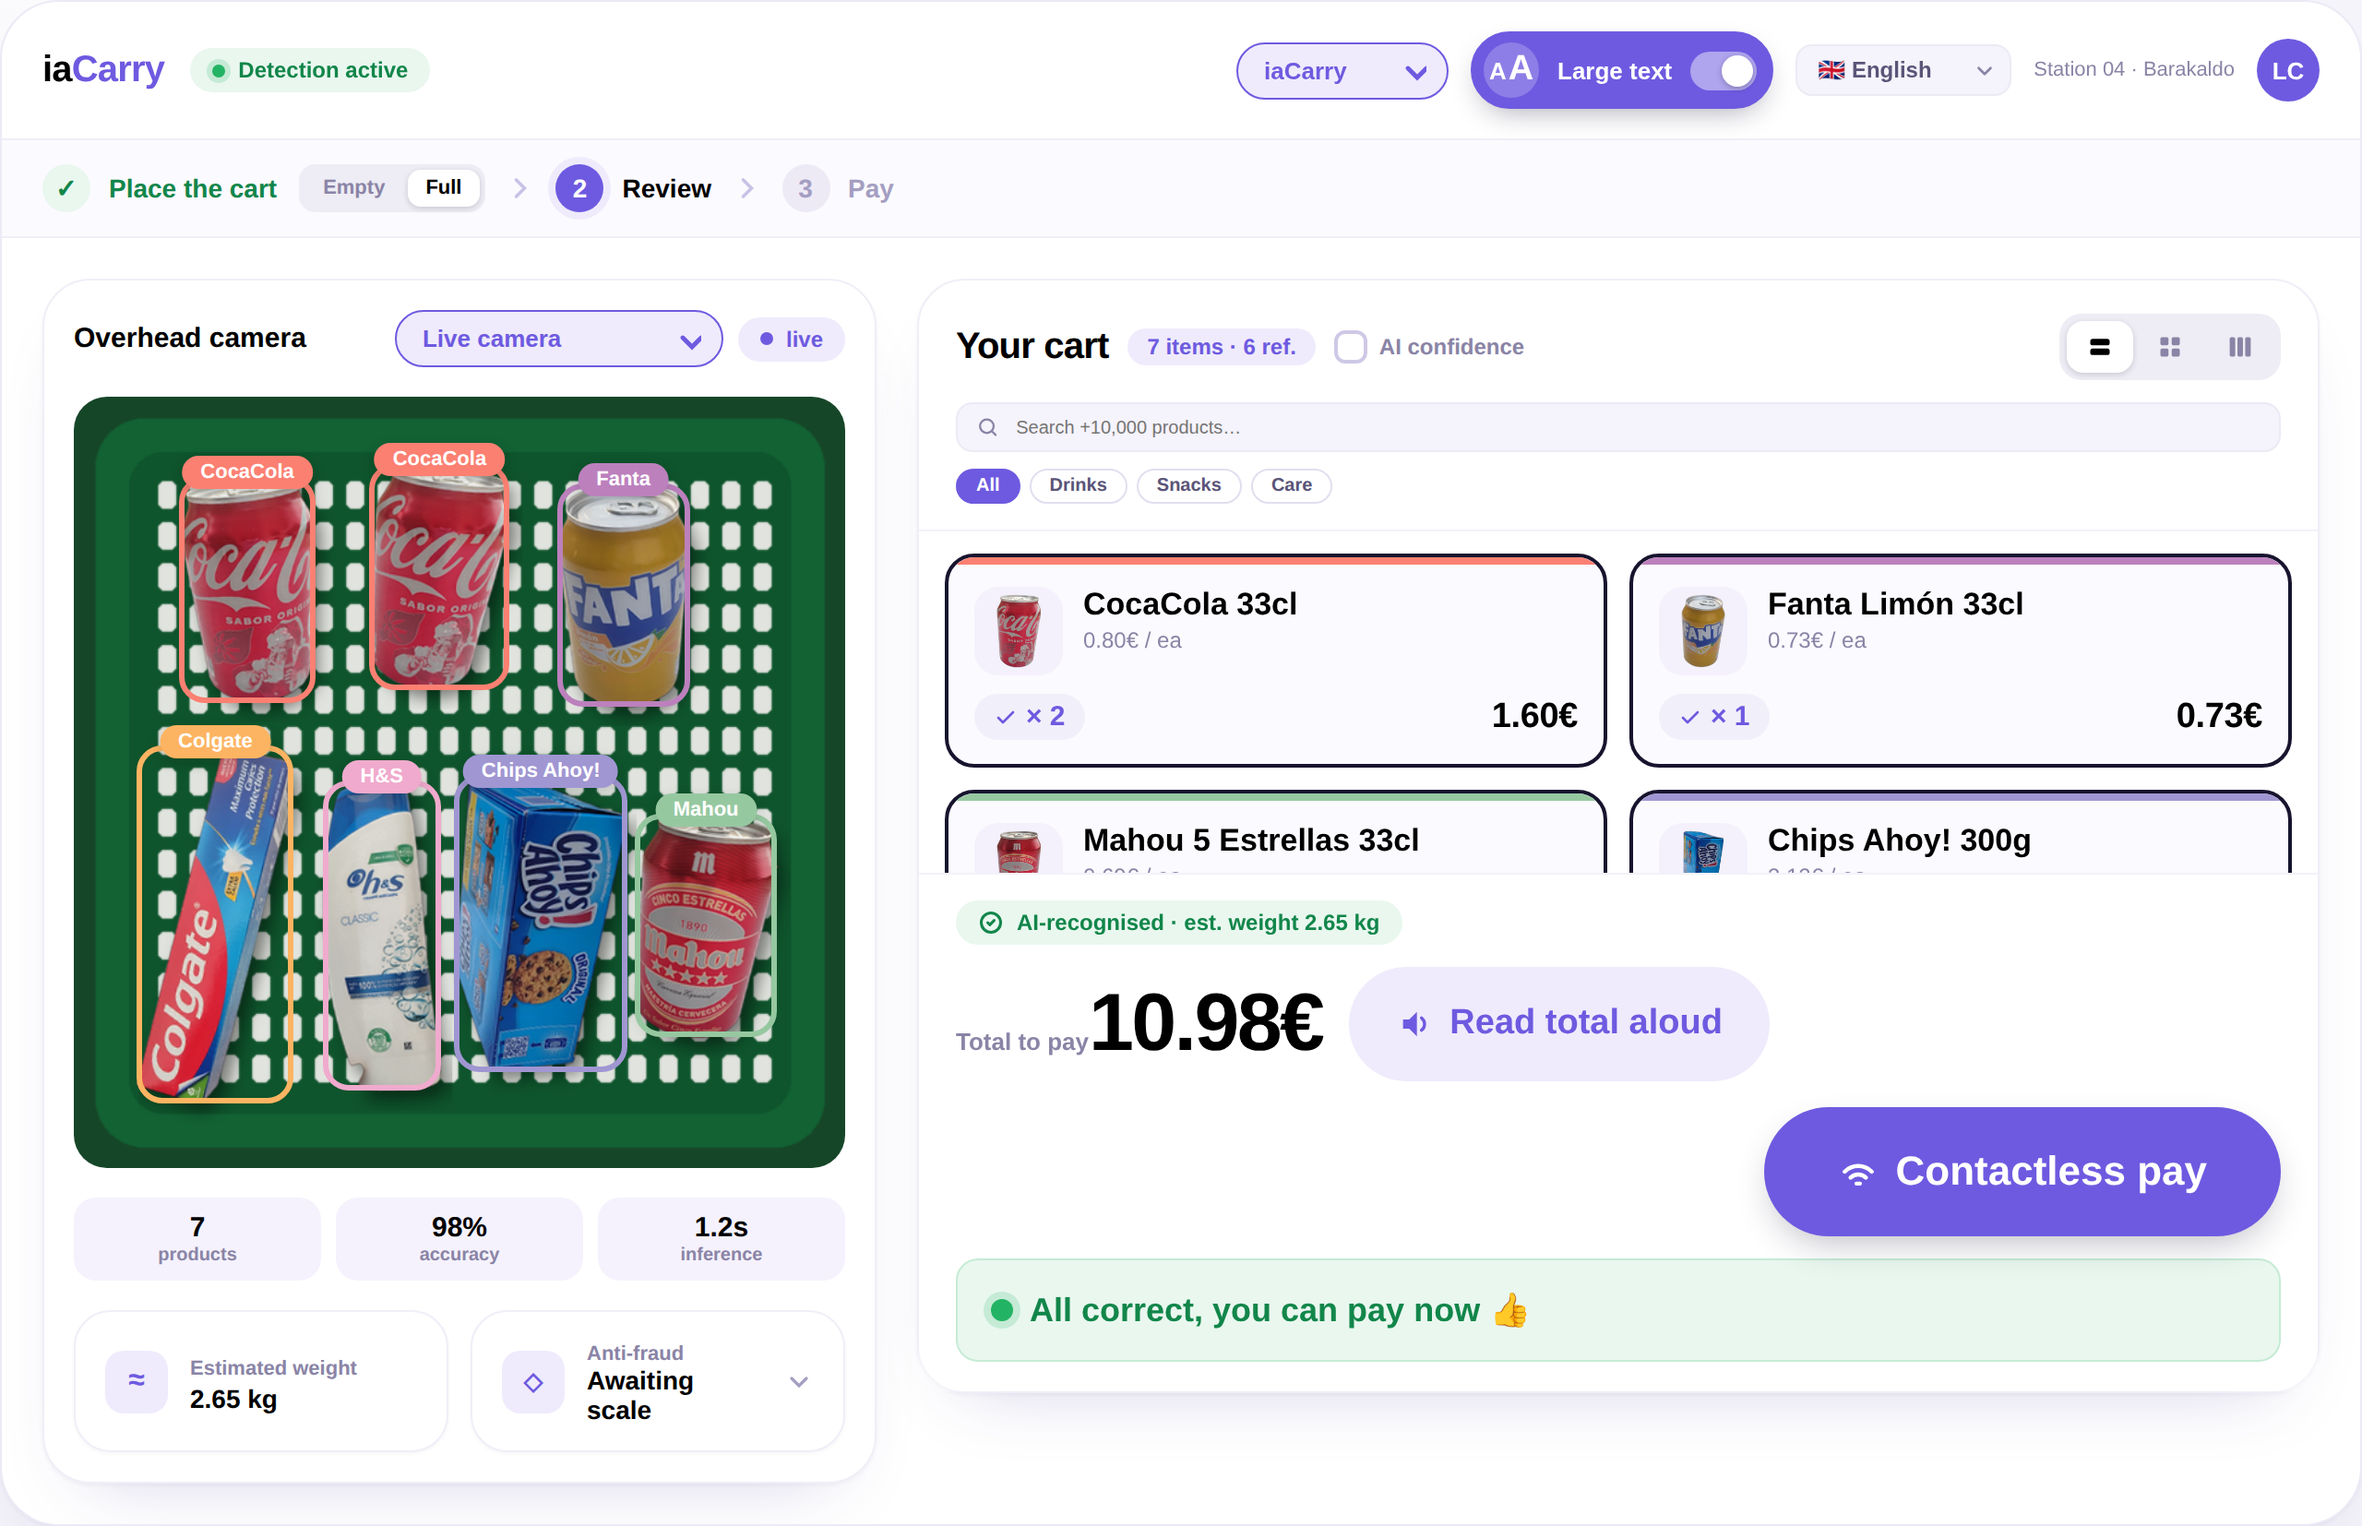
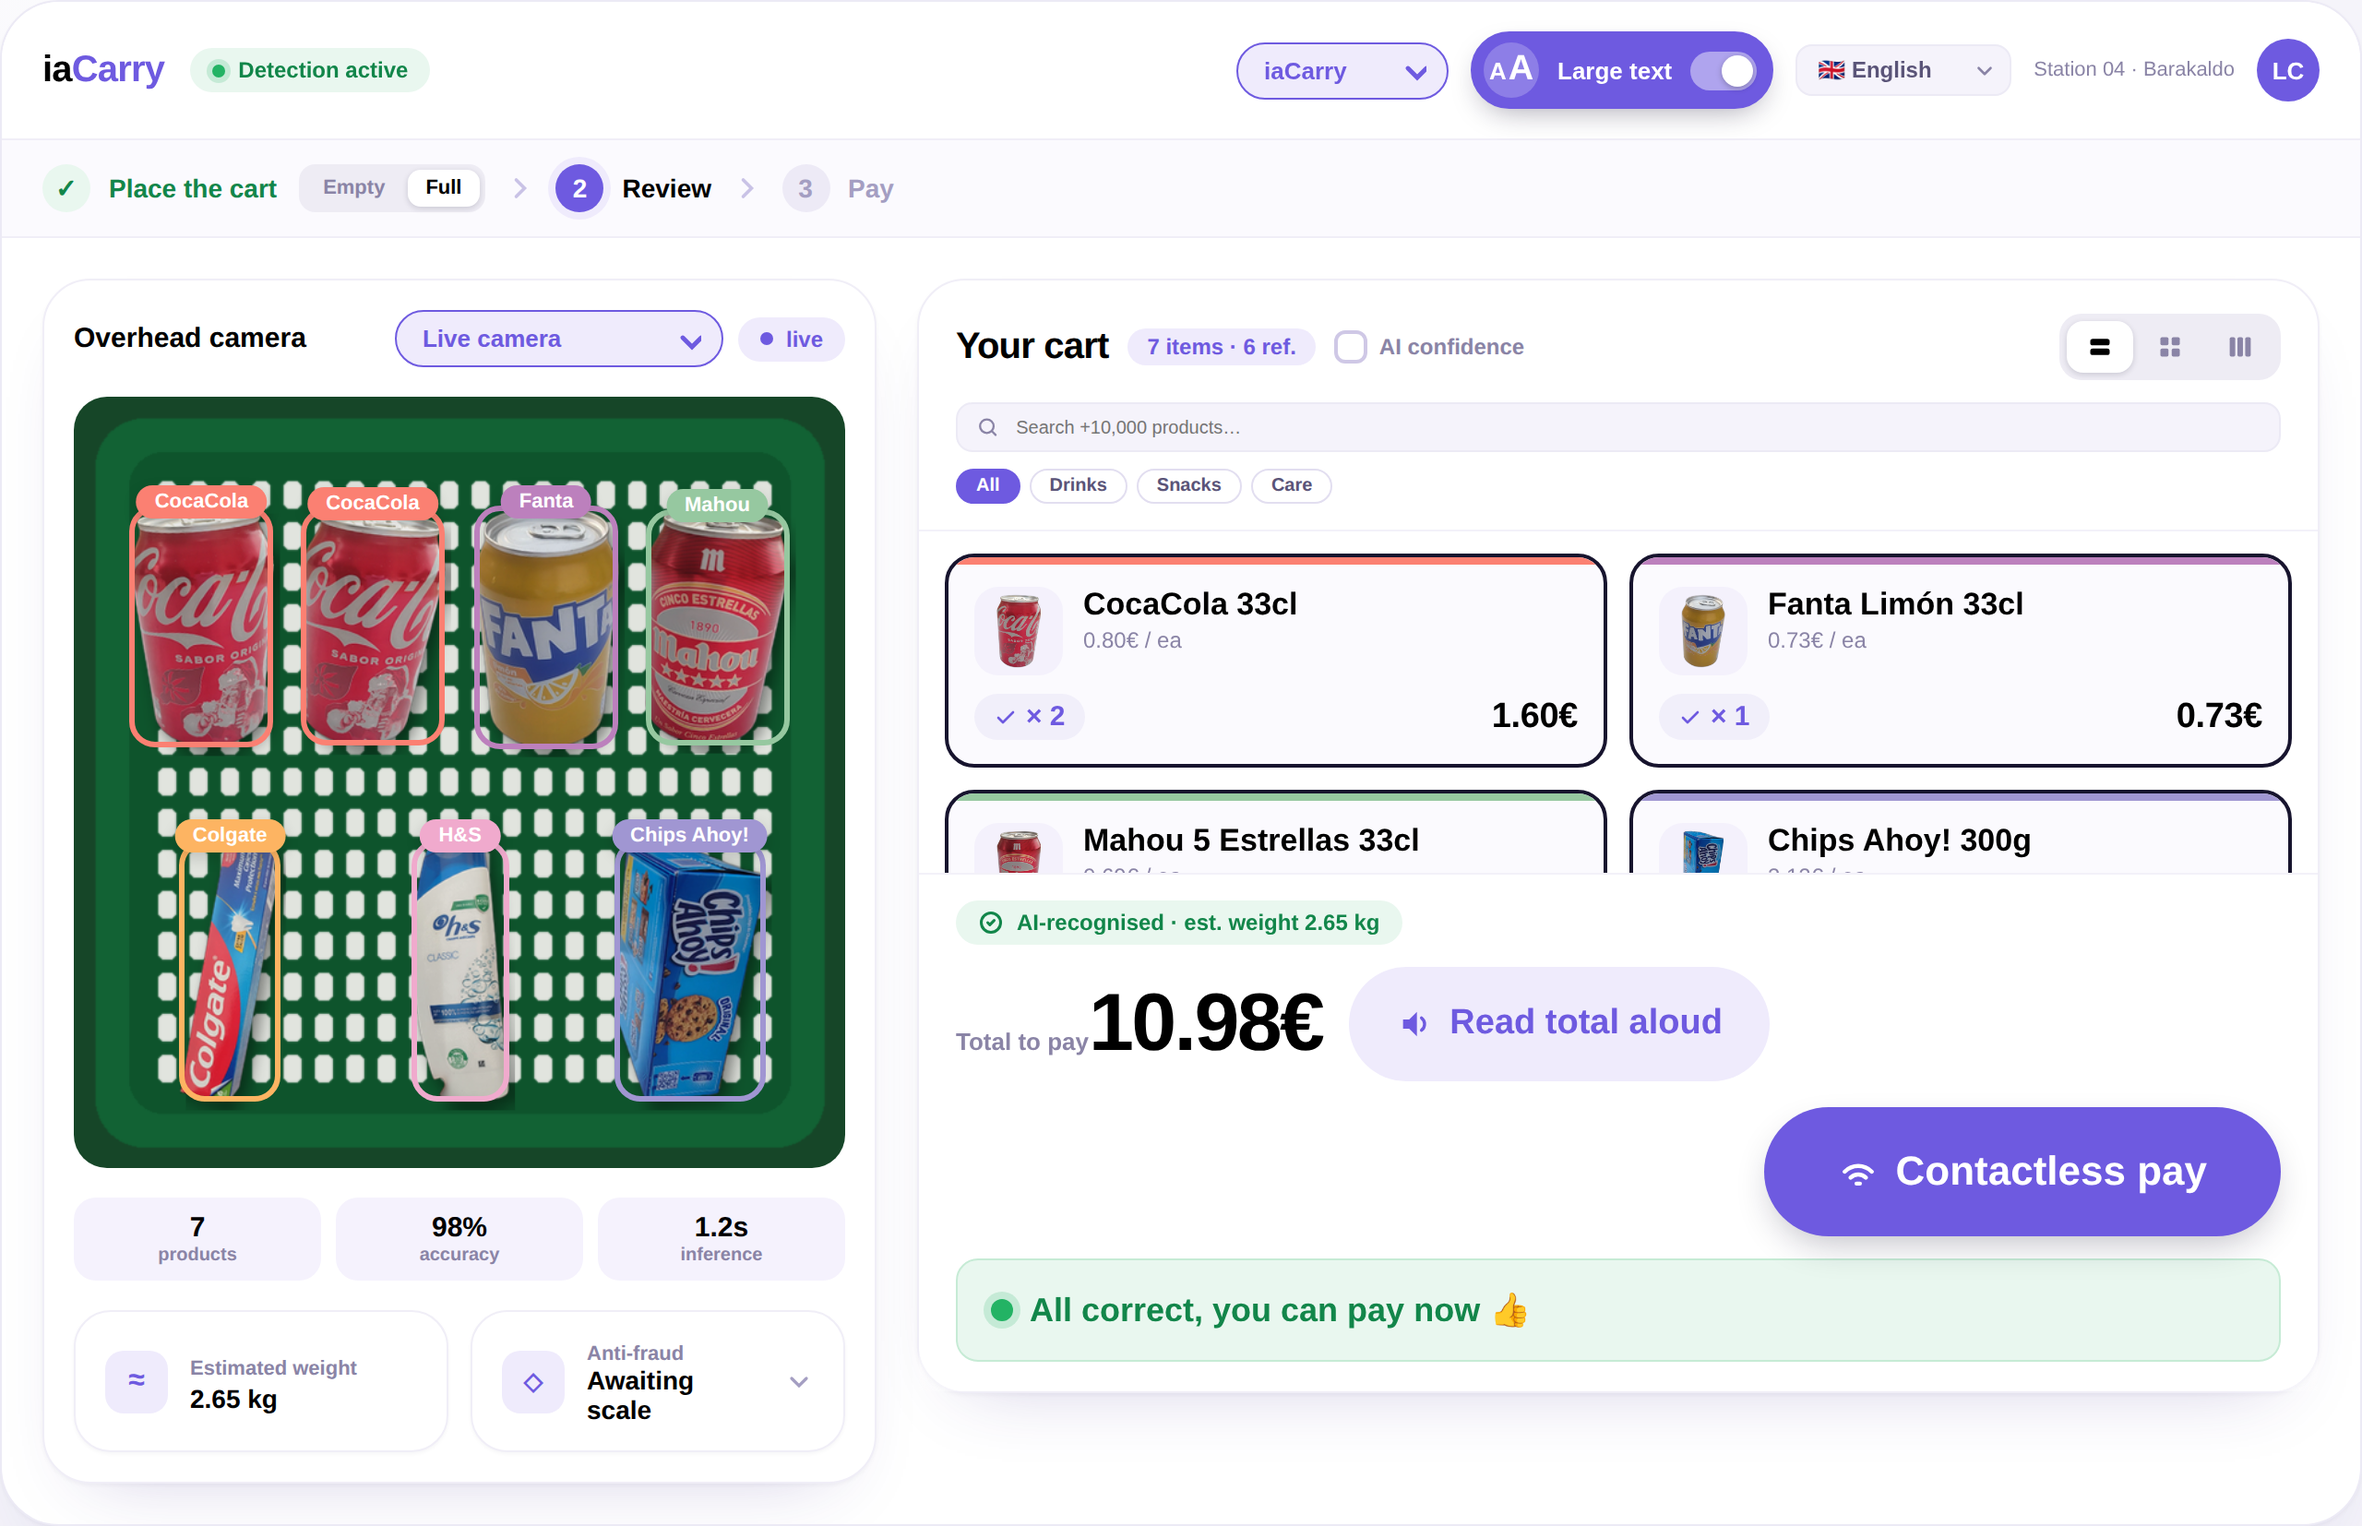
Stop products overlapping in the station screens' camera frames
Products were placed by hand at fixed centres, closer than their widths,
so boxes and cans overlapped on the trolley frame. They are now laid out
in rows, one cell each, scaled to fit below a strip kept for the label,
and the script refuses to write a frame where two boxes or labels
intersect. Totals and contents are unchanged: 10.98 EUR, 28.09 EUR.

Claude-Session: https://claude.ai/code/session_01UuVYbn9LtwBCN8P71mXPJ4

Changed region(s): [[0.0312, 0.2775, 0.3438, 0.74]]

diff --git a/presentation/sora/make_station_screens.py b/presentation/sora/make_station_screens.py
@@ -10,7 +10,7 @@ the browser, so the template and the demo assets are not touched.
     python3 presentation/sora/make_station_screens.py
 
 Writes frame_<station>.png and screen_<station>.png next to this file.
-Change BASKET / TROLLEY to change what is in the cart.
+Change BASKET / TROLLEY (rows of products) to change what is in the cart.
 """
 import glob
 import json
@@ -54,43 +54,56 @@ def trolley_bg():
     d.rectangle([0, 0, S - 1, S - 1], outline=(200, 204, 210), width=10)
     return im.filter(ImageFilter.GaussianBlur(0.5))
 
-def place(bg, items, seed):
+MARGIN = 34      # keep products off the frame edge
+LABEL = 28       # room above each box for the name pill the page draws
+FILL = .84       # share of its cell a product may take, so neighbours never touch
+
+
+def place(bg, rows, seed):
+    """Lay products out in rows, one cell each, and derive their exact boxes.
+
+    Each product is scaled to fit inside its own cell, below a strip kept free
+    for its label, so no two products or labels overlap; that is checked."""
     random.seed(seed)
-    preds = []
-    for tag, cx, cy, h, ang in items:
-        p = Image.open(PROD % tag).convert("RGBA")
-        p = p.resize((round(p.width * h / p.height), h), Image.LANCZOS)
-        p = p.rotate(ang, expand=True, resample=Image.BICUBIC)
-        # soft shadow
-        sh = Image.new("RGBA", p.size, (0, 0, 0, 0))
-        sh.putalpha(p.getchannel("A").point(lambda a: int(a * .45)))
-        sh = sh.filter(ImageFilter.GaussianBlur(6))
-        x, y = round(cx - p.width / 2), round(cy - p.height / 2)
-        bg.paste(sh, (x + 6, y + 8), sh)
-        bg.paste(p, (x, y), p)
-        l, t, r, b = p.getchannel("A").point(lambda a: 255 if a > 40 else 0).getbbox()
-        l, t, r, b = max(0, x + l), max(0, y + t), min(S, x + r), min(S, y + b)
-        preds.append({"probability": round(random.uniform(.93, .99), 2), "tagName": tag,
-                      "boundingBox": {"left": round(l / S, 4), "top": round(t / S, 4),
-                                      "width": round(r / S, 4), "height": round(b / S, 4)}})
+    preds, boxes = [], []
+    row_h = (S - 2 * MARGIN) / len(rows)
+    for ri, row in enumerate(rows):
+        cell_w = (S - 2 * MARGIN) / len(row)
+        for ci, (tag, ang) in enumerate(row):
+            p = Image.open(PROD % tag).convert("RGBA").rotate(ang, expand=True, resample=Image.BICUBIC)
+            p = p.crop(p.getchannel("A").point(lambda a: 255 if a > 40 else 0).getbbox())
+            k = min(cell_w * FILL / p.width, (row_h - LABEL) * FILL / p.height)
+            p = p.resize((round(p.width * k), round(p.height * k)), Image.LANCZOS)
+            cx = MARGIN + cell_w * (ci + .5)
+            cy = MARGIN + row_h * ri + LABEL + (row_h - LABEL) / 2
+            x, y = round(cx - p.width / 2), round(cy - p.height / 2)
+            sh = Image.new("RGBA", p.size, (0, 0, 0, 0))   # soft shadow
+            sh.putalpha(p.getchannel("A").point(lambda a: int(a * .45)))
+            sh = sh.filter(ImageFilter.GaussianBlur(6))
+            bg.paste(sh, (x + 5, y + 7), sh)
+            bg.paste(p, (x, y), p)
+            l, t, r, b = x, y, x + p.width, y + p.height
+            boxes.append((tag, l, t - LABEL, r, b))
+            preds.append({"probability": round(random.uniform(.93, .99), 2), "tagName": tag,
+                          "boundingBox": {"left": round(l / S, 4), "top": round(t / S, 4),
+                                          "width": round(r / S, 4), "height": round(b / S, 4)}})
+    for i, a in enumerate(boxes):              # boxes plus label strips must not intersect
+        for c in boxes[i + 1:]:
+            if a[1] < c[3] and c[1] < a[3] and a[2] < c[4] and c[2] < a[4]:
+                raise SystemExit("overlap between %s and %s" % (a[0], c[0]))
     tags = sorted({p["tagName"] for p in preds})
     for p in preds:
         p["tagInt"] = tags.index(p["tagName"]) + 1
     return bg, preds
 
-BASKET = [  # tag, centre x, centre y, height px, rotation
-    ("cocacola_33cl", 150, 160, 190, 8), ("cocacola_33cl", 300, 150, 190, -6),
-    ("fanta_33cl", 460, 165, 190, 5), ("mahou5_33cl", 520, 440, 190, -8),
-    ("colgate_75ml", 120, 440, 300, -12), ("hysori_300ml", 250, 450, 260, 6),
-    ("chipsahoy_300g", 385, 440, 250, -4),
+BASKET = [  # rows of (tag, rotation in degrees)
+    [("cocacola_33cl", 6), ("cocacola_33cl", -5), ("fanta_33cl", 4), ("mahou5_33cl", -6)],
+    [("colgate_75ml", -8), ("hysori_300ml", 5), ("chipsahoy_300g", -4)],
 ]
 TROLLEY = [
-    ("chipsahoy_300g", 95, 120, 200, 4), ("tostarica_570g", 245, 115, 190, -3), ("smacks_330g", 400, 115, 200, 5),
-    ("colacao_383g", 545, 125, 190, -5),
-    ("cocacola_33cl", 70, 330, 145, 6), ("cocacola_33cl", 175, 330, 145, -5), ("fanta_33cl", 280, 330, 145, 4),
-    ("estrellag_33cl", 375, 330, 150, -3), ("mahou5_33cl", 470, 330, 145, 5), ("mahou00_33cl", 570, 335, 145, -6),
-    ("aguila_33cl", 95, 520, 150, -4), ("hysori_300ml", 245, 515, 200, 5), ("colgate_75ml", 395, 515, 220, -8),
-    ("axedrak_150ml", 540, 515, 190, 6),
+    [("chipsahoy_300g", 3), ("tostarica_570g", -3), ("smacks_330g", 4), ("colacao_383g", -4)],
+    [("cocacola_33cl", 5), ("cocacola_33cl", -4), ("fanta_33cl", 3), ("estrellag_33cl", -3), ("mahou5_33cl", 4)],
+    [("mahou00_33cl", -5), ("aguila_33cl", 4), ("hysori_300ml", -3), ("colgate_75ml", 5), ("axedrak_150ml", -4)],
 ]
 
 
